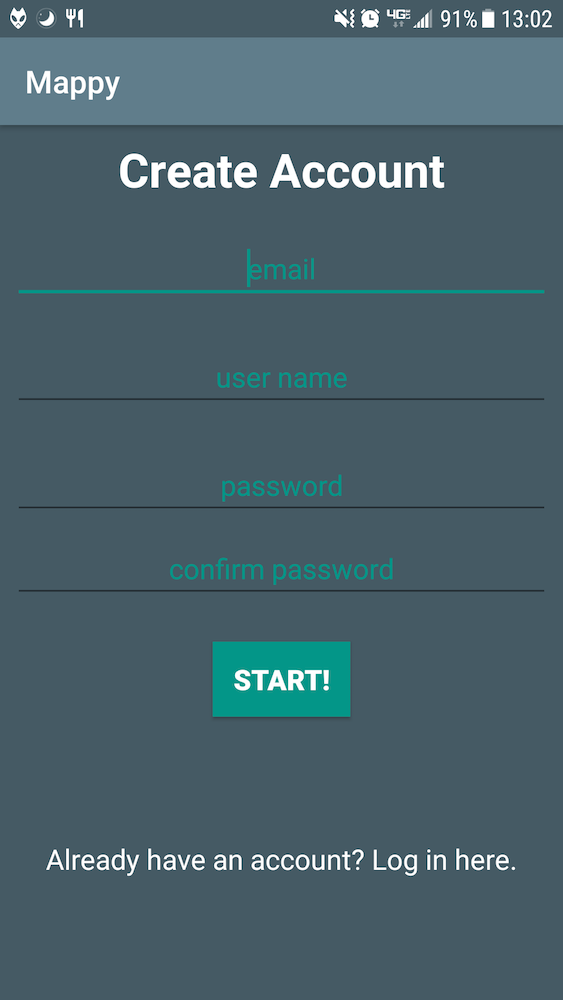
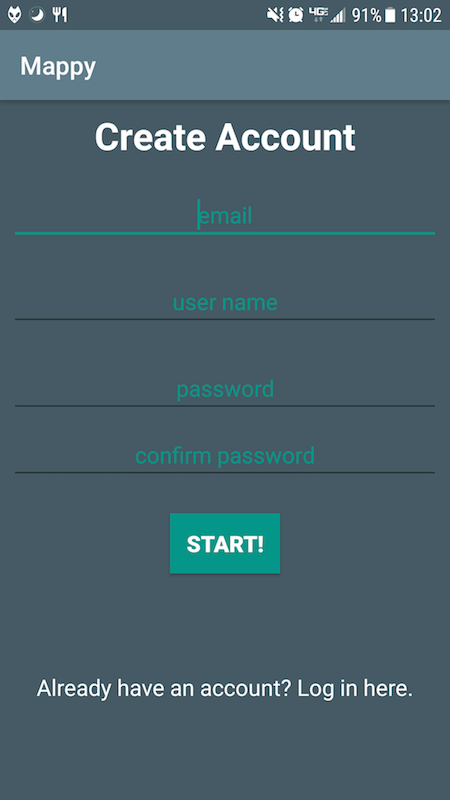
add more images to readme

diff --git a/README.md b/README.md
@@ -6,7 +6,9 @@ Mappy is an app that lets you know what's going on wherever you are. You'll able
 
 Leave a comment about something going on where you are - an awesome local show, a sale on your favorite product at the store, or a cool meetup or presentation you're attending, your comment will be represented by a pin at the location of the event.
 
- ![map](screenshot/map.png)
+ ![map](screenshot/map.png) ![new comment](screenshot/post.png)
+ 
+ ![login](screenshot/login.png) ![new account](screenshot/new.png)
  
  ## Setup/Installation 
 * Clone this repository
